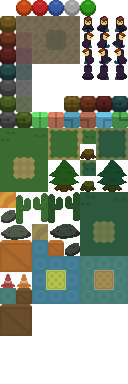
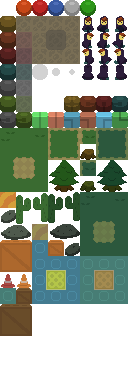
Added fancy get-particle animations

Changed region(s): [[0.25, 0.1562, 0.375, 0.2188], [0.5312, 0.1562, 0.5938, 0.2188], [0.4062, 0.1562, 0.4688, 0.2188]]

diff --git a/src/gameobjects.js b/src/gameobjects.js
@@ -10,6 +10,28 @@ var MagicOrb = function (game, x, y, index) {
 
   var bobble = this.game.add.tween(this);
   bobble.to({ y: this.y - 10 }, 1700, Phaser.Easing.Cubic.InOut, true, 100, -1, true);
+
+  var emitter = this.game.add.emitter(0, 0, 30);
+  emitter.makeParticles('test16x16', [35, 36]);
+  emitter.gravity = 0;
+  emitter.lifespan = 350;
+  emitter.setScale();
+  emitter.setRotation();
+  var emitLoop = this.game.time.events.loop(100, function () { 
+    for (var i = 0; i < 2; i++) {
+      emitter.emitParticle(this.x, this.y);
+    }
+  }, this);
+
+  this.events.onKilled.add(function () {
+    this.game.time.events.remove(emitLoop);
+    emitter.lifespan = 1000;
+    for (var i = 0; i < 10; i++) {
+      emitter.setXSpeed(500 * Math.cos(i / 10 * Math.PI * 2), 500 * Math.cos(i / 10 * Math.PI * 2));
+      emitter.setYSpeed(500 * Math.sin(i / 10 * Math.PI * 2), 500 * Math.sin(i / 10 * Math.PI * 2));
+      emitter.emitParticle(this.x, this.y);
+    }
+  }, this);
 };
 MagicOrb.prototype = Object.create(Phaser.Sprite.prototype);
 MagicOrb.prototype.constructor = MagicOrb;
